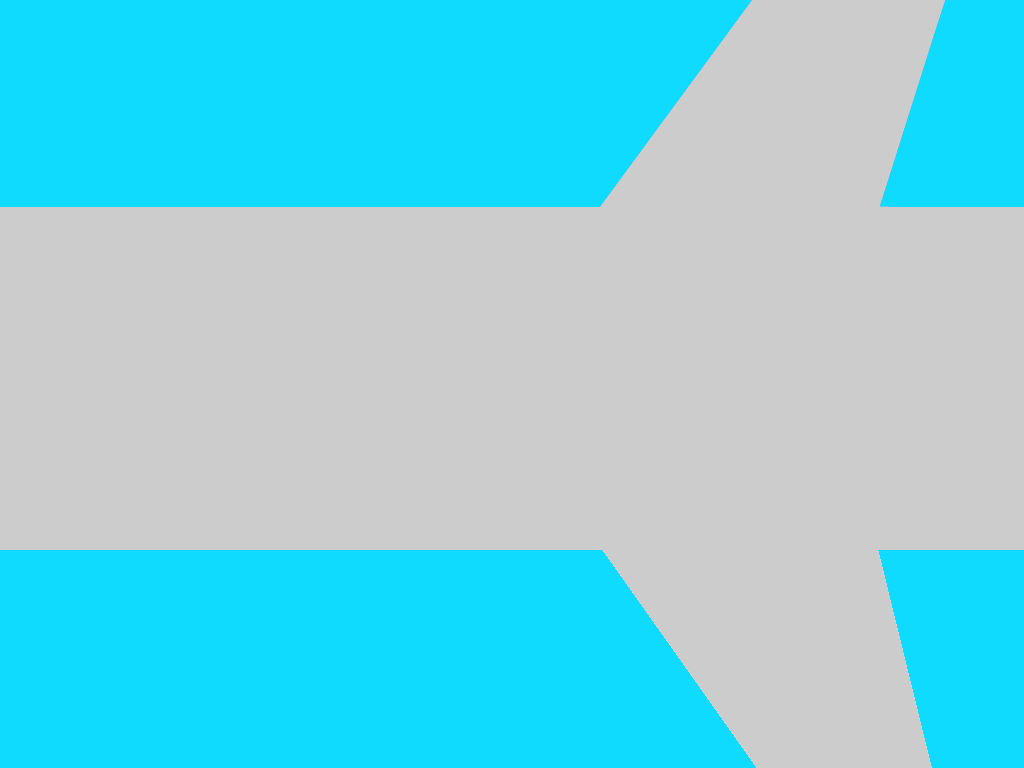
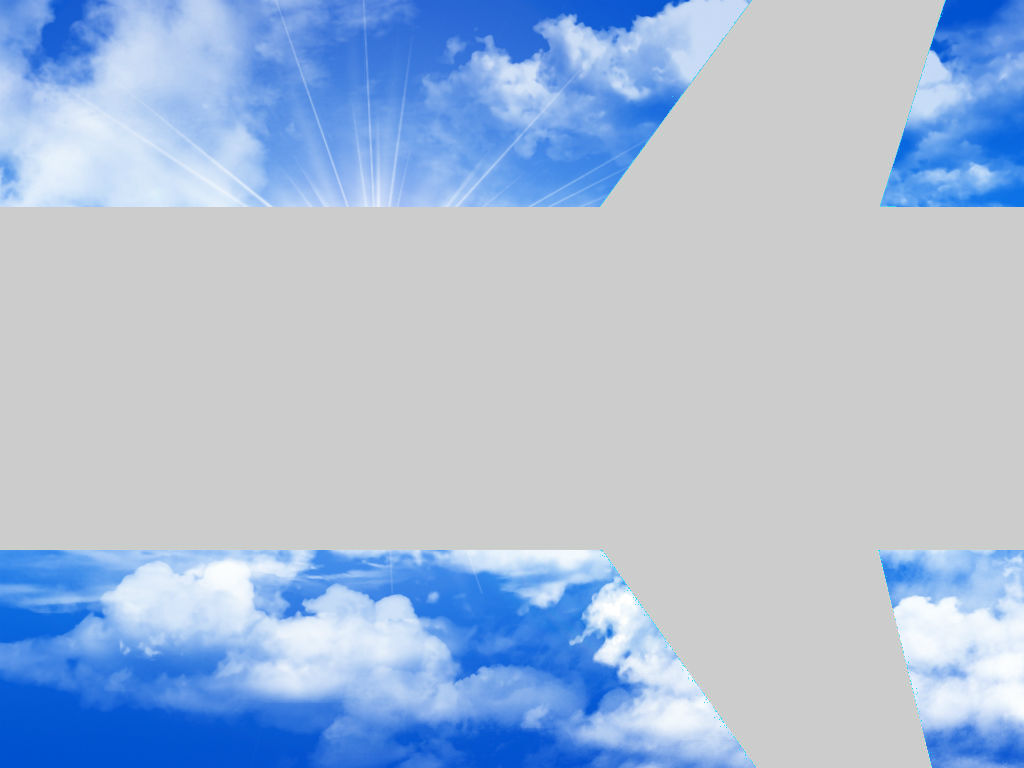
added stack pane and combobox

diff --git a/WPFAirline/WpfApplication1/SeatReservationPage.xaml b/WPFAirline/WpfApplication1/SeatReservationPage.xaml
@@ -11,7 +11,9 @@
       WindowHeight="500" WindowWidth="500">
 
     <Grid>
-        <Image Source="http://s10.postimg.org/ccdhx5jop/Airplane.jpg" Stretch="Fill"/>
+        <Image Source="http://s18.postimg.org/vjgvubnop/Airplane.jpg" Stretch="Fill"/>
+        
+        <!--<Image Source="http://s10.postimg.org/ccdhx5jop/Airplane.jpg" Stretch="Fill"/>-->
         <Button Content="Reserve Seat" x:Name="ReserveSeat" Click="ReserveSeatButton_Click"
                 	VerticalAlignment="Bottom" Margin="50" Width="400"/>
         <Grid>
@@ -26,8 +28,9 @@
             <Grid x:Name="InputBox" Visibility="Collapsed">
                 <Grid Background="Black" Opacity="0.5"/>
                 <Border
-            MinWidth="250"
-            Background="Orange" 
+            MinWidth="350"
+            Padding="20"
+            Background="Cornsilk" 
             BorderBrush="Black" 
             BorderThickness="1" 
             CornerRadius="0,25,0,25" 
@@ -35,10 +38,10 @@
             VerticalAlignment="Center">
                     <StackPanel>
                         <TextBlock Margin="5" Text="Enter Name:" FontWeight="Bold" FontFamily="Cambria" />
-                        <TextBox MinWidth="150" HorizontalAlignment="Center" VerticalAlignment="Center" x:Name="InputNameBox"/>
+                        <TextBox MinWidth="250" HorizontalAlignment="Center" VerticalAlignment="Center" x:Name="InputNameBox"/>
                         <StackPanel Orientation="Horizontal" HorizontalAlignment="Center">
-                            <Button x:Name="SubmitButton" Margin="5" Content="Submit" Background="{x:Null}" Click="SubmitButton_Click" Width="60"/>
-                            <Button x:Name="CancelButton" Margin="5" Content="Cancel" Background="{x:Null}" Click="CancelButton_Click" Width="60"/>
+                            <Button x:Name="SubmitButton" Margin="5" Content="Submit" Background="{x:Null}" Click="SubmitButton_Click" MinWidth="80"/>
+                            <Button x:Name="CancelButton" Margin="5" Content="Cancel" Background="{x:Null}" Click="CancelButton_Click" MinWidth="80"/>
                         </StackPanel>
                     </StackPanel>
                 </Border>

diff --git a/WPFAirline/WpfApplication1/MainPage.xaml b/WPFAirline/WpfApplication1/MainPage.xaml
@@ -12,8 +12,27 @@
 
     <Grid>
         <Image Source="http://thefirstretirement.com/wp-content/uploads/2014/02/Airliner.jpg" Stretch="Fill"/>
-        <Button x:Name="button" Content="Button" HorizontalAlignment="Left" Margin="337,341,0,0" VerticalAlignment="Top" Width="74" Click="button_Click"/>
-        <ListBox x:Name="flightList" HorizontalAlignment="Left" Height="224" Margin="34,138,0,0" VerticalAlignment="Top" Width="210"/>
-    </Grid>
+        <Grid x:Name="SelectFlight" >
+            <Grid Background="Black" Opacity=".3"/>
+            <Border
+            MinWidth="350"
+            Padding="15"
+            Background="Cornsilk" 
+            BorderBrush="Black" 
+            BorderThickness="1" 
+            CornerRadius="15,15,15,15" 
+            Margin="0,300,0,0"
+            HorizontalAlignment="Center" 
+            VerticalAlignment="Center">
+                <StackPanel>
+                    <Label x:Name="label" Content="Select Flight:" FontWeight="Bold" HorizontalAlignment="Left" Margin="0" VerticalAlignment="Top"/>
+                    <ComboBox x:Name="flightList" HorizontalAlignment="Center" Margin="0" VerticalAlignment="Bottom" Width="500"/>
+                    <Button x:Name="button" Content="Button" HorizontalAlignment="Right" Margin="0,5,0,0" VerticalAlignment="Bottom" MinWidth="74" Click="button_Click"/>
+                </StackPanel>
+            </Border>
+            
+        </Grid>
+
+        </Grid>
 
 </Page>

diff --git a/WPFAirline/WpfApplication1/SeatReservationPage.xaml.cs b/WPFAirline/WpfApplication1/SeatReservationPage.xaml.cs
@@ -12,6 +12,7 @@ using System.Windows.Media;
 using System.Windows.Media.Imaging;
 using System.Windows.Navigation;
 using System.Windows.Shapes;
+using WPFAirline;
 
 namespace WpfApplication1
 {
@@ -27,16 +28,18 @@ namespace WpfApplication1
         private void ReserveSeatButton_Click(object sender, RoutedEventArgs e)
         {
             // Reserve Seat button clicked, shows input box.
-            InputBox.Visibility = System.Windows.Visibility.Visible;
+            InputBox.Visibility = Visibility.Visible;
         }
 
         private void SubmitButton_Click(object sender, RoutedEventArgs e)
         {
             // Submit button Clicked! Hides InputBox and handle the input text.
-            InputBox.Visibility = System.Windows.Visibility.Collapsed;
+            InputBox.Visibility = Visibility.Collapsed;
 
             // Do something with the Input
             String input = InputNameBox.Text;
+            Flight _addpassenger = new Flight();
+            _addpassenger.AddPassenger(5, input);
             //MyListBox.Items.Add(input); // Add Input to ListBox, need to change.
 
             // Clear InputBox.
@@ -46,7 +49,7 @@ namespace WpfApplication1
         private void CancelButton_Click(object sender, RoutedEventArgs e)
         {
             // Cancel Button Clicked! Hides InputBox until reserve seat button is clicked again.
-            InputBox.Visibility = System.Windows.Visibility.Collapsed;
+            InputBox.Visibility = Visibility.Collapsed;
 
             // Clear InputBox.
             InputNameBox.Text = String.Empty;

diff --git a/WPFAirline/WpfApplication1/MainPage.xaml.cs b/WPFAirline/WpfApplication1/MainPage.xaml.cs
@@ -38,6 +38,7 @@ namespace WpfApplication1
         {
             NavigationService nav = NavigationService.GetNavigationService(this);
             nav.Navigate(new Uri("SeatReservationPage.xaml", UriKind.RelativeOrAbsolute));
+
         }
     }
 }
